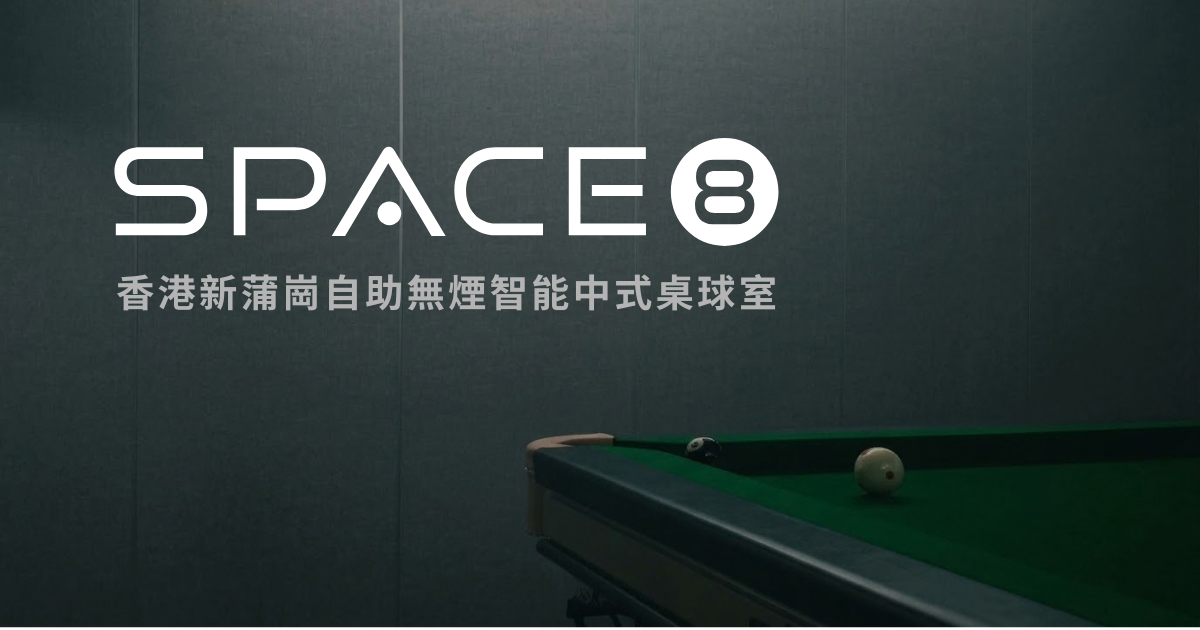
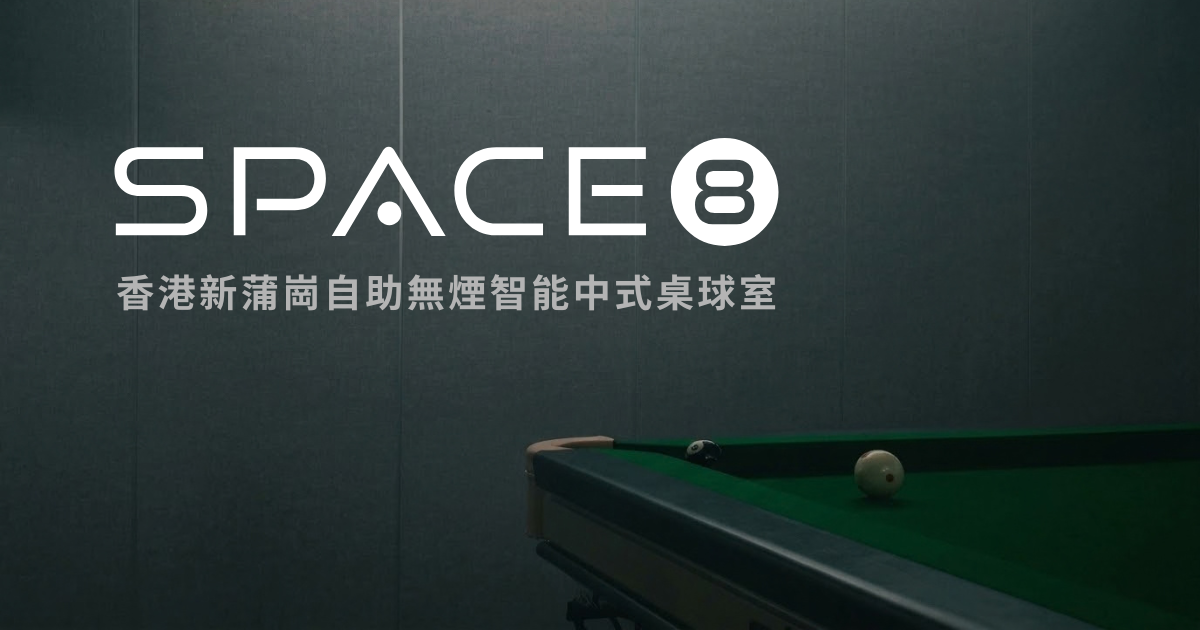
feat(space-pilot): update scoreboard section title and use new photo
- Update title to "將科技融入桌球" across all locales (zh-HK/zh-CN: 將科技融入桌球, en: Technology meets snooker)
- Switch image from /gallery/space-pilot-scoreboard.png to /images/space-pilot-scoreboard-中八桌球-香港新蒲崗.webp
- Remove CSS-drawn iPad frame decorations (borders, shadows, notch bars, gradients) since new photo includes built-in device frame
- Simplify markup by removing padding wrapper and decorative elements in both compact and full-screen modes

diff --git a/components/landing/SpacePilotScoreboardExperience.tsx b/components/landing/SpacePilotScoreboardExperience.tsx
@@ -6,7 +6,7 @@ import { useRef, useState } from "react"
 import { useTranslations } from "next-intl"
 import { Activity, BarChart3, Clock3, Trophy } from "lucide-react"
 
-const SCOREBOARD_IMAGE = "/gallery/space-pilot-scoreboard.png"
+const SCOREBOARD_IMAGE = "/images/space-pilot-scoreboard-中八桌球-香港新蒲崗.webp"
 const EASE = [0.16, 1, 0.3, 1] as const
 
 type SpacePilotScoreboardExperienceProps = {
@@ -61,8 +61,7 @@ export default function SpacePilotScoreboardExperience({
           </div>
           <Activity size={18} strokeWidth={1.6} className="shrink-0 text-[#22C55E]" aria-hidden="true" />
         </div>
-        <div className="relative aspect-[983/674] overflow-hidden rounded-[16px] border-8 border-[#090a0e] bg-black shadow-[0_18px_45px_rgba(0,0,0,0.45),inset_0_0_0_1px_rgba(255,255,255,0.12)] sm:rounded-[20px] sm:border-[10px]">
-          <div className="pointer-events-none absolute inset-x-1/2 top-1 z-20 h-0.5 w-8 -translate-x-1/2 rounded-full bg-white/20" aria-hidden="true" />
+        <div className="relative aspect-[983/674] overflow-hidden rounded-[16px] bg-black sm:rounded-[20px]">
           <Image
             src={SCOREBOARD_IMAGE}
             alt={t("scoreboard_alt")}
@@ -71,8 +70,6 @@ export default function SpacePilotScoreboardExperience({
             className="object-cover"
             draggable={false}
           />
-          <div className="absolute inset-0 bg-gradient-to-t from-black/45 via-transparent to-white/[0.06]" aria-hidden="true" />
-          <div className="pointer-events-none absolute inset-x-1/2 bottom-1 z-20 h-0.5 w-10 -translate-x-1/2 rounded-full bg-white/25" aria-hidden="true" />
           <div className="absolute inset-x-3 bottom-3 flex items-center justify-between rounded-lg border border-white/15 bg-black/70 px-3 py-2 text-[10px] text-white/80 backdrop-blur-md">
             <span data-cms-key="spacePilot.scoreboard_live">{t("scoreboard_live")}</span>
             <span data-cms-key="spacePilot.scoreboard_match" className="flex items-center gap-1 text-[#22C55E]"><span className="h-1.5 w-1.5 rounded-full bg-[#22C55E]" aria-hidden="true" />{t("scoreboard_match")}</span>
@@ -113,10 +110,9 @@ export default function SpacePilotScoreboardExperience({
             <motion.div
               style={reducedMotion ? undefined : { scale: imageScale, rotateX: imageRotate, y: imageY, opacity: imageOpacity }}
               transition={{ duration: 0.7, ease: EASE }}
-              className="relative z-10 mx-auto w-full max-w-5xl rounded-[30px] border border-white/20 bg-[#090a0e] p-2 shadow-[0_30px_90px_rgba(0,0,0,0.65),inset_0_1px_0_rgba(255,255,255,0.16)] sm:p-3 md:rounded-[42px] md:border-2 md:p-4"
+              className="relative z-10 mx-auto w-full max-w-5xl overflow-hidden rounded-[30px] md:rounded-[42px]"
             >
-              <div className="pointer-events-none absolute inset-x-1/2 top-1.5 z-30 h-1 w-12 -translate-x-1/2 rounded-full bg-black/90 shadow-[0_0_0_1px_rgba(255,255,255,0.08)] sm:top-2 md:top-3 md:h-1.5 md:w-16" aria-hidden="true" />
-              <div className="relative aspect-[983/674] overflow-hidden rounded-[22px] border border-black/80 bg-[#11131b] shadow-[inset_0_0_0_1px_rgba(255,255,255,0.12)] md:rounded-[30px]">
+              <div className="relative aspect-[983/674] bg-black">
                 <Image
                   src={SCOREBOARD_IMAGE}
                   alt={t("scoreboard_alt")}
@@ -126,7 +122,6 @@ export default function SpacePilotScoreboardExperience({
                   priority
                   draggable={false}
                 />
-                <div className="absolute inset-0 bg-gradient-to-t from-black/45 via-transparent to-white/[0.06]" aria-hidden="true" />
 
                 <motion.div
                   style={reducedMotion ? undefined : { x: leftPanelX }}
@@ -152,7 +147,6 @@ export default function SpacePilotScoreboardExperience({
                   <span data-cms-key="spacePilot.scoreboard_match" className="hidden text-white/45 sm:inline">{t("scoreboard_match")}</span>
                 </motion.div>
               </div>
-              <div className="mx-auto mt-2 h-1 w-12 rounded-full bg-white/20 md:mt-3 md:h-1.5 md:w-16" aria-hidden="true" />
             </motion.div>
 
             <div className="pointer-events-none absolute inset-x-0 -bottom-8 z-20 mx-auto flex max-w-5xl items-center gap-3 px-2 md:-bottom-10">
